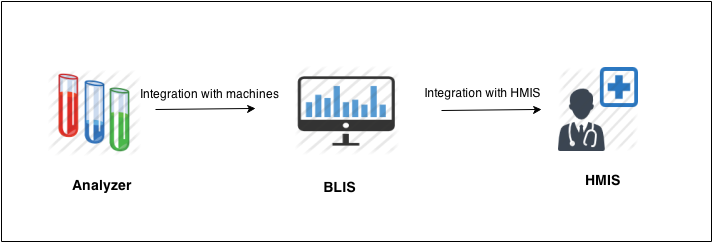
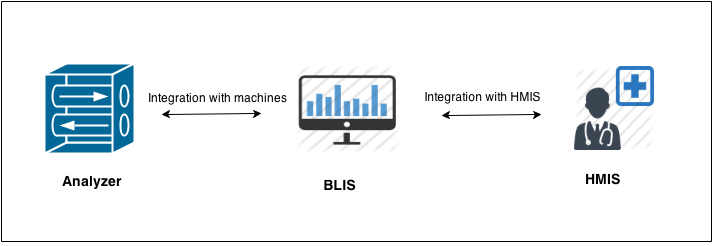
Updates to site

diff --git a/index.html b/index.html
@@ -34,53 +34,41 @@
           <img src="images/eight.JPG">
           <img src="images/nine.jpg">
         </div>
-        <hr>
         <div id="main-content">
         <section >
           <h1>
-<a name="blis-kenya" class="anchor" href="#blis-kenya"><span class="octicon octicon-link"></span></a>Introduction</h1>
+<a name="blis-kenya" class="anchor" href="#blis-kenya"><span class="octicon octicon-link"></span></a>Overview</h1>
 
-<p> BLIS (Basic Laboratory Information System) Kenya, is a fork of <a href="http://blis.cc.gatech.edu/index.php">C4G BLIS</a> an open source Web-based system that can be installed in a local, district, or national laboratory.
-
- It is a tool that helps to standardize laboratory procedures and standards, and to generate useful reports to give a realistic picture of laboratory services and assist with staff and budget planning.
+<p> BLIS (Basic Laboratory Information System) Kenya, is a fork of <a href="http://blis.cc.gatech.edu/index.php">C4G BLIS</a> an open source Web-based system that can be implemented in a local, district, or national laboratory. The system efficiently manages the work flow in the lab through intergrating with the hospital EMR's, automatically receiving lab test requests from the clinicians/doctors and returning the results. The system tracks the movement of specimens providing respective turn-around-times for tests,  and provides individual workload monitoring, test reporting and quality control.
      </p>
      <hr>
      <h1><a href="#"><span class="octicon octicon-link"></span></a>Main Features</h1>
      <img src="images/Intergration.png">
 <hr>
-     <h4>Intergration with machines</h4>     
-		<p>We have intergrated BLIS-Kenya with the Celltac-F machine and are currently working on intergrating more machines. Lab technologists are now able to to send results from the machine to the doctor directly,
-		eliminating transcription errors and the need to print analyzer results. </p>
+     <h4>Intergration with instruments</h4>     
+		<p>BLIS-Kenya has been intergrated with a number of analysers through a configurable utility which automatically reads the results from the instrument for onward transmission and reporting to other systems,
+		eliminating transcription errors and improves efficiency, Celltac-F machine in Bungoma is one example.</p>
 
 	<h4>Intergation with HMIS</h4>	
 		<p>BLIS-Kenya integrates smoothly with existing Hospital management systems, allowing for quick and seamless introduction of the labarotory information system into the hospital.</p>
 
  	<h4>Other features of BLIS include</h4>
 		<ul>
-		      <li>   One-time entry of each unique patient. </li>
-		      <li>   Standardization collected data. </li>
-		      <li>   Customization. </li>
-		      <li>   Detailed reports. </li> 
-		      <li>   Daily logs to be reviewed for data verification. </li>
-		      <li>   Simple data backup. </li>
+		      <li>   Standardization of labarotary data and procedures. </li>
+		      <li>   Customization to local workflow requirements. </li>
+		      <li>   Detailed analytic reporting. </li> 
+		      <li>   Robust data security. </li>
+          <li>   User friendly interface </li>
+		      <li>   Data backups. </li>
 		 </ul>  
-	
-        <p>  As with any properly implemented electronic record system, BLIS may be found over time to improve data accuracy and reduce costs in laboratories. Benefits already seen in labs using BLIS
-			<ul>
-			          <li>Reduced burden for technicians, as opposed to paper system. </li>
-			          <li>Improved consistency and accuracy of data entry. </li>
-			          <li>Ability to view patient history and track samples. </li>
-			          <li>Ability to aggregate data and analyze data patterns and trends.</li>
-			          <li>Printed patient records in place of handwritten records </li>
-			          <li>Printed daily logs that make the reports look like the paper forms used in the laboratory </li>
-			</ul>
-		</p>
-    <section id="downloads" class="clearfix">
-          <a href="https://github.com/ilabafrica/BLIS-Kenya/zipball/master" id="download-zip" class="button"><span>Download .zip</span></a>
-          <a href="https://github.com/ilabafrica/BLIS-Kenya" id="view-on-github" class="button"><span>View on GitHub</span></a>
-    </section>
+    <hr> 
+	<h2>In use</h2>
+    <p>We have implemented BLIS-Kenya in the Bungoma District hospital and Kapsabet District hospital, in Bungoma it is connected to the hospital HMIS called Sanitas. In Kapsabet we have
+    connected to MEDBOSS the hospital management system.</p>
       <hr>
-    <h1>The Team</h1>
+  <h2>Publications</h2>
+        <p>The implementation of BLIS-Kenya has been cited as a success story in Africa and the results of this have been accepted in the African societies for laboratory medicine.</p>
+    <h2>The Team</h2>
     <br>
       <!-- Could be better to use ajax to get the avatar URL's -->
       <div class="avatar"><img src="https://avatars.githubusercontent.com/u/334037" alt="Emmanuel Kweyu"> 
@@ -107,13 +95,18 @@
       <br>
       <br>
       </section>
+
       </div>
         <footer>
         <div>
-          BLIS-kenya is maintained by <a href="https://github.com/ilabafrica"><img src="https://pbs.twimg.com/profile_images/1553273706/_iLabAfrica_africa_normal.png" style="width:2em;height:2em"> @iLabAfrica</a><br>
+          BLIS-kenya is maintained by <a href="https://github.com/ilabafrica"><img src="images/ilab.png" style="width:2em;height:2em"> @iLabAfrica</a><br>
           Website <a href="ilabafrica.ac.ke">ilabafrica.ac.ke</a> <br> 
           Twitter <a href="https://twitter.com/iLabAfrica">@iLabAfrica</a><br>
-          Tactile theme by <a href="https://twitter.com/jasonlong">Jason Long</a>.</div>
+          <br>
+          <section id="downloads" class="clearfix">
+          <a href="https://github.com/ilabafrica/BLIS-Kenya/zipball/master" id="download-zip" class="button"><span>Download .zip</span></a>
+          <a href="https://github.com/ilabafrica/BLIS-Kenya" id="view-on-github" class="button"><span>View on GitHub</span></a>
+    </section>
         </footer>
 
         
@@ -122,4 +115,5 @@
   </body>
   <script src="http://code.jquery.com/jquery-1.11.0.min.js"></script>
   <script src="javascripts/main.js"></script>
+   <!-- Tactile theme by <a href="https://twitter.com/jasonlong">Jason Long</a>.</div> -->
 </html>
